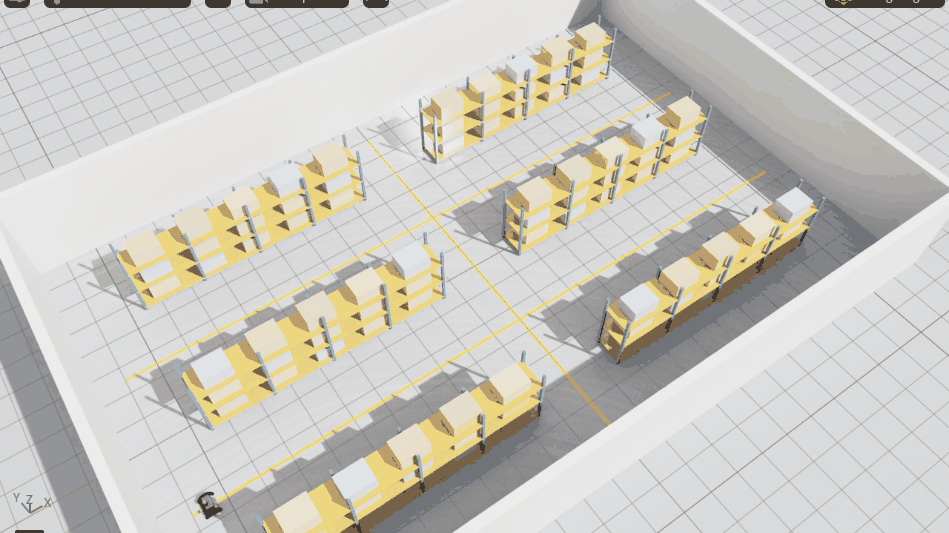
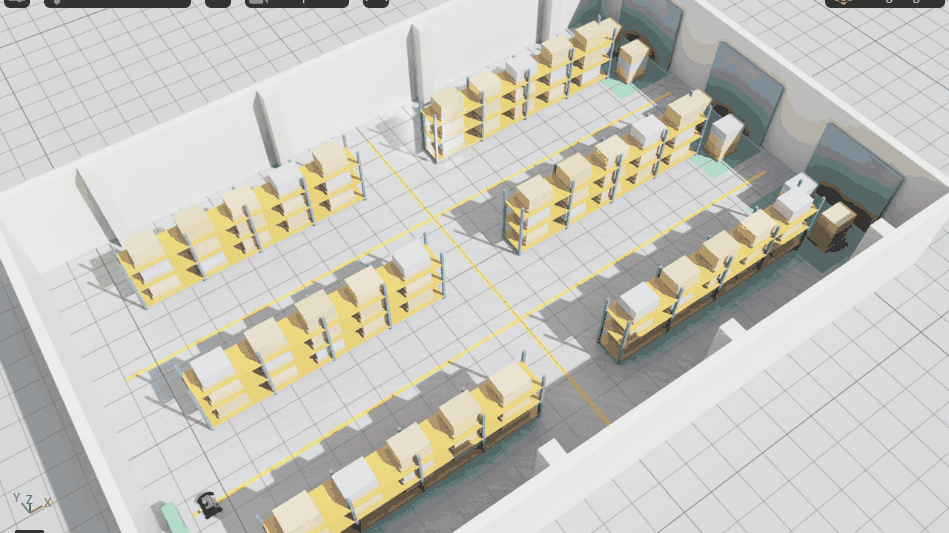
feat(scene): a more realistic warehouse (pallets, loading docks, pilasters, charging station) and a Nav2 map of it

diff --git a/exts/sim-tools/sim_tools/warehouse.py b/exts/sim-tools/sim_tools/warehouse.py
@@ -2,7 +2,8 @@
 
 Everything is plain USD boxes with static colliders, authored in the session layer under ``/World/Warehouse``: nothing is
 downloaded and nothing is read from a file, so it works offline and the same way every time. 24 m by 16 m, Z up, metres:
-two long aisles (y = -2.5 and 2.5) and a cross aisle at x = 0, racks of three shelves with boxes on them. A robot starts at
+two long aisles (y = -2.5 and 2.5) and a cross aisle at x = 0, racks of three shelves with boxes on them. Pallets under the loads, three
+loading docks with staged pallets on the east wall, pilasters along the long walls and a charging station. A robot starts at
 the west end of the first aisle, facing east.
 """
 
@@ -20,6 +21,9 @@ RACK_SIDES_X = (-5.5, 5.5)  # centres of the two rack halves, either side of the
 AISLES_Y = (-2.5, 2.5)
 START = (-10.5, -2.5, 0.0)  # the robot's first position
 CARGO_COLORS = ((0.72, 0.55, 0.34), (0.66, 0.5, 0.3), (0.78, 0.62, 0.4), (0.55, 0.62, 0.7))
+WOOD = (0.55, 0.4, 0.24)
+PALLET = (1.0, 0.8, 0.12)  # a pallet under each load: length, width, height
+DOCK_Y = (-5.0, 0.0, 5.0)  # centres of the three loading doors on the east wall
 
 
 def _box(stage, path, center, size, color, collide=True):
@@ -36,7 +40,6 @@ def _box(stage, path, center, size, color, collide=True):
 
 def build(stage) -> dict:
     """Author the warehouse; returns its path, size and what it holds."""
-    count = 0
     with Usd.EditContext(stage, stage.GetSessionLayer()):
         UsdGeom.Xform.Define(stage, ROOT)
         # Floor: the quick-start ground plane collides; this slab only gives the warehouse a floor to see.
@@ -47,7 +50,19 @@ def build(stage) -> dict:
                  ("West", (-LENGTH / 2, 0, WALL_HEIGHT / 2), (WALL_THICKNESS, WIDTH, WALL_HEIGHT)))
         for name, center, size in walls:
             _box(stage, f"{ROOT}/Walls/{name}", center, size, (0.82, 0.82, 0.8))
-            count += 1
+        for side, sy in (("North", WIDTH / 2 - 0.4), ("South", -WIDTH / 2 + 0.4)):  # pilasters along the long walls
+            for i, px in enumerate((-9.0, -3.0, 3.0, 9.0)):
+                _box(stage, f"{ROOT}/Walls/Pilaster{side}{i}", (px, sy, WALL_HEIGHT / 2), (0.5, 0.5, WALL_HEIGHT), (0.74, 0.74, 0.72))
+        for i, y in enumerate(DOCK_Y):  # loading docks: a door in the east wall, a painted staging bay, two pallet stacks
+            _box(stage, f"{ROOT}/Dock/Door{i}", (LENGTH / 2 - 0.25, y, 1.4), (0.1, 3.0, 2.8), (0.35, 0.42, 0.5))
+            _box(stage, f"{ROOT}/Dock/Bay{i}", (LENGTH / 2 - 1.6, y, 0.004), (2.4, 3.4, 0.008), (0.2, 0.55, 0.35), collide=False)
+            for k, dy in enumerate((-0.8, 0.8)):
+                base = f"{ROOT}/Dock/Stack{i}_{k}"
+                _box(stage, f"{base}/Pallet", (LENGTH / 2 - 1.6, y + dy, PALLET[2] / 2), PALLET, WOOD)
+                for level in range(3):
+                    _box(stage, f"{base}/Carton{level}", (LENGTH / 2 - 1.6, y + dy, PALLET[2] + 0.2 + level * 0.4),
+                         (0.9, 0.7, 0.4), CARGO_COLORS[(i + k + level) % len(CARGO_COLORS)])
+        _box(stage, f"{ROOT}/ChargingStation", (-LENGTH / 2 + 0.6, START[1], 0.3), (0.3, 0.8, 0.6), (0.15, 0.6, 0.3))  # where the robot starts
         for i, y in enumerate(AISLES_Y):  # painted lane lines
             _box(stage, f"{ROOT}/Markings/AisleLine{i}", (0, y, 0.004), (LENGTH - 2, 0.12, 0.008), (0.95, 0.8, 0.1), collide=False)
         _box(stage, f"{ROOT}/Markings/CrossLine", (0, 0, 0.004), (0.12, WIDTH - 2, 0.008), (0.95, 0.8, 0.1), collide=False)
@@ -59,18 +74,17 @@ def build(stage) -> dict:
                     px = x - RACK_LENGTH / 2 + post * RACK_LENGTH / 4
                     for back, py in enumerate((y - RACK_DEPTH / 2 + 0.04, y + RACK_DEPTH / 2 - 0.04)):
                         _box(stage, f"{base}/Post{post}_{back}", (px, py, RACK_HEIGHT / 2), (0.08, 0.08, RACK_HEIGHT), (0.1, 0.25, 0.6))
-                        count += 1
                 for level, z in enumerate(SHELF_Z):
                     _box(stage, f"{base}/Shelf{level}", (x, y, z), (RACK_LENGTH, RACK_DEPTH, 0.05), (0.9, 0.45, 0.1))
-                    count += 1
                     for item in range(5):  # boxes on the shelf
                         cx = x - RACK_LENGTH / 2 + 0.8 + item * (RACK_LENGTH - 1.6) / 4
-                        h = 0.45 + 0.05 * ((row + side + level + item) % 3)
-                        _box(stage, f"{base}/Cargo{level}_{item}", (cx, y, z + 0.025 + h / 2), (0.9, 0.7, h),
+                        h = 0.4 + 0.05 * ((row + side + level + item) % 3)
+                        _box(stage, f"{base}/Pallet{level}_{item}", (cx, y, z + 0.025 + PALLET[2] / 2), PALLET, WOOD)
+                        _box(stage, f"{base}/Cargo{level}_{item}", (cx, y, z + 0.025 + PALLET[2] + h / 2), (0.9, 0.7, h),
                              CARGO_COLORS[(row + side + level + item) % len(CARGO_COLORS)])
-                        count += 1
                 racks += 1
-    return dict(prim=ROOT, size_m=[LENGTH, WIDTH, WALL_HEIGHT], racks=racks, solid_prims=count,
+        solid = sum(1 for p in Usd.PrimRange(stage.GetPrimAtPath(ROOT)) if p.HasAPI(UsdPhysics.CollisionAPI))
+    return dict(prim=ROOT, size_m=[LENGTH, WIDTH, WALL_HEIGHT], racks=racks, solid_prims=solid, loading_docks=len(DOCK_Y),
                 aisles_y=list(AISLES_Y), cross_aisle_x=0.0, robot_start=list(START))
 
 

diff --git a/docs/plans/CHECKLIST.md b/docs/plans/CHECKLIST.md
@@ -83,7 +83,7 @@ Found on 2026-11-05 by scripted scenarios (17 resolver checks in throwaway world
 - [x] **F39. Validate every converted asset** before it is trusted: `omni.asset_validator` or our own checks (a physics variant, rigid bodies, joints, no NaN, sane scale), reported in the import result **Done (branch `feat/universal-asset-import`): every import result has `validation` (geometry, finite bounds, sane size, rigid bodies, articulation root, joints; mesh collision; map walls). It is our own checks, not `omni.asset_validator`.**
 - [ ] **F40. Tester evidence per format.** For each of F29 to F38, a plain-request tester (Gemini 3.8 Flash or another named model) downloads one real asset from a named repo and gets it into a scene; the result and its verification go to `~/isaac-workspace/runs/`; a format is ticked only after that
 - [ ] **F41. Fewer calls (section 1, in assets).** (a) A bridge choice that survives between calls, or a `port` argument on the sim tools (tester C, W3: `use_bridge` first in every server session, about eight script runs); (b) the import result is enough to act on (joints, limits, bounds, articulation root), so no `sim__joints__inspect` or `sim__prim__get` follow-up is needed; (c) `assets__import_path` options `pose`, `fixed_base`, `joint_targets` and `ground=true` so import, place and first move are one call; (d) `assets__scan` and `assets__search` list files in every supported format so the agent finds the entry itself; (e) measure calls per task before and after with the same plain-request tester prompts; goal: a downloaded robot loaded, posed and photographed in 3 calls or fewer
-- [x] **F46. A warehouse with a robot in one call** (Kaleb liked the Nav2 warehouse; a manufacturing-logistics demo). `sim__quick_start environment=warehouse` builds a 24 by 16 m room with six racks, 90 boxes, two aisles and lane lines, and puts the robot (default `carter_v1`) at the start of an aisle; plain USD boxes with colliders, no download. Live on Sim 6.2: the Carter drove 10 m down the aisle in six seconds; the editor view frames the whole room. Not done: Nav2 goals in this room (`ros=true` is set up but untested here), and picking the layout (size, number of racks) by arguments
+- [x] **F46. A warehouse with a robot in one call** (Kaleb liked the Nav2 warehouse; a manufacturing-logistics demo). `sim__quick_start environment=warehouse` builds a 24 by 16 m room with six racks, 90 pallet loads, two aisles, lane lines, three loading docks with staged pallets, pilasters and a charging station, and puts the robot (default `carter_v1`) at the start of an aisle; plain USD boxes with colliders, no download. Live on Sim 6.2: the Carter drove 10 m down the aisle in six seconds; the editor view frames the whole room. The Nav2-style occupancy map of it was exported with `sim__map__occupancy` (500 by 339 cells; racks, docks and walls occupied). Not done: Nav2 goals in this room (`ros=true` is set up but untested here), and picking the layout (size, number of racks) by arguments
 - [ ] **F26. Wait for more evidence (tester B and A wishes):** a choice of output folder for `sim__camera__capture` and `sim__map__occupancy` (the folder is fixed on purpose); a viewport-only screenshot; a screen recording that survives its server exiting (the description now warns); a brighter overhead capture (not reproduced: the picture was readable)
 - [ ] **F13. Aim the camera of a Lab play window** (tester 2 wish): the play window is its own Kit app with no MCP bridge, so `sim__viewport__frame` cannot reach it. Either a camera pose argument on `isaaclab__play`, or run it with the bridge enabled. Needed for a good demo video
 - [ ] **F14. A one-call video of a play run** (tester 2 wish). Lab's own `--video` needs `moviepy` (1.x) and `imageio-ffmpeg` in the Lab interpreter, which the workspace env does not have; the tool refuses with that message and points at window recording, which worked. Decide whether to install them into the Lab env, or add a `record` option on `isaaclab__play`

diff --git a/docs/TOOLS-SCENE.md b/docs/TOOLS-SCENE.md
@@ -28,14 +28,15 @@ UR5e twin, `ur5e_dt__quick_start`.
 `sim__quick_start environment=warehouse` (add `robot=nova_carter`, `ros=true` or `play=true` as you like; with no robot it uses `carter_v1`) builds:
 
 - a 24 by 16 m room with 3.5 m walls;
-- six shelving racks (three shelves each) with 90 boxes on them, in three rows with two long aisles (y = -2.5 and 2.5) and a cross aisle at x = 0;
+- six shelving racks (three shelves each) with 90 loads, each box on its own pallet, in three rows with two long aisles (y = -2.5 and 2.5) and a cross aisle at x = 0;
+- three loading docks in the east wall, each with a painted staging bay and two stacks of pallets and cartons, pilasters along the long walls, and a charging station where the robot starts;
 - painted yellow lane lines along the aisles;
 - the robot at the west end of the first aisle, facing east, ready to drive down it.
 
 It is plain USD boxes with static colliders under `/World/Warehouse`, authored in the session layer: nothing is downloaded, so it works offline and
 looks the same every time. The editor's viewport is aimed at the whole room. The result has `environment` (size, racks, aisles, the robot's start).
 Live on Sim 6.2: the Carter started at (-10.5, -2.5) and drove down the aisle to x = -0.1 in six seconds with both wheels commanded at 6 rad/s.
-For a real floor plan, import a Nav2 map instead (`assets__import_path` on a map `.yaml`, see [ASSET-IMPORT.md](ASSET-IMPORT.md#ros-maps)): the Nav2
+To use it with Nav2, make the map of it with `sim__map__occupancy` (`min=[-12.5,-8.5] max=[12.5,8.5] z=[0.08,0.3] clear=[[-10.5,-2.5,0.6]] start=[-9,-2.5]`): a 500 by 339 cell map with the walls, pilasters, racks, dock stacks and charging station occupied (checked live). For a real floor plan, import a Nav2 map instead (`assets__import_path` on a map `.yaml`, see [ASSET-IMPORT.md](ASSET-IMPORT.md#ros-maps)): the Nav2
 `warehouse` map is 30 by 50 m of walls. `ros=true` sets up the robot's ROS 2 topics as for any quick-start robot; that was not run against this room, so check the map and frames before sending Nav2 goals.
 
 The result has the new `session_id` and `stage_id`, the paths, `robot.articulation_root` (joint tools need this prim, not the
